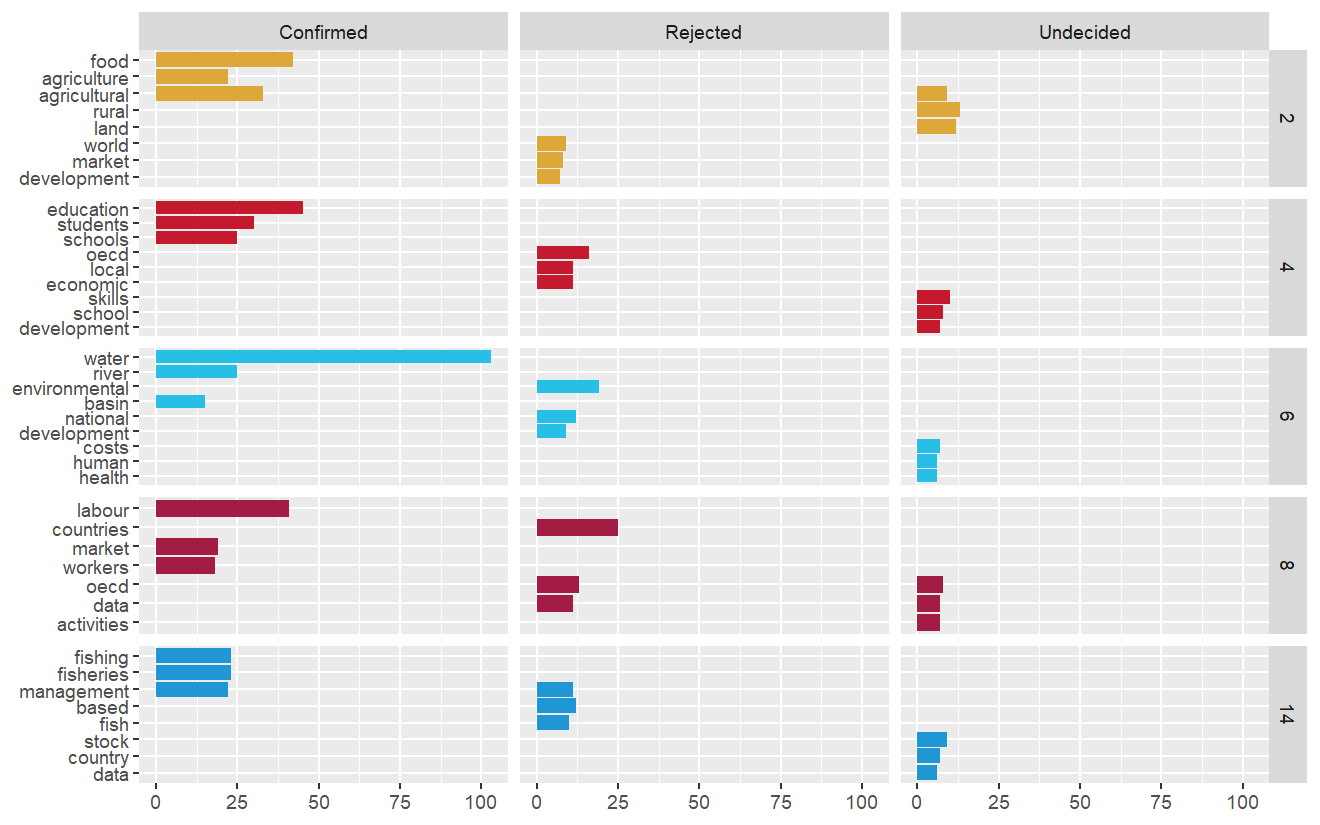
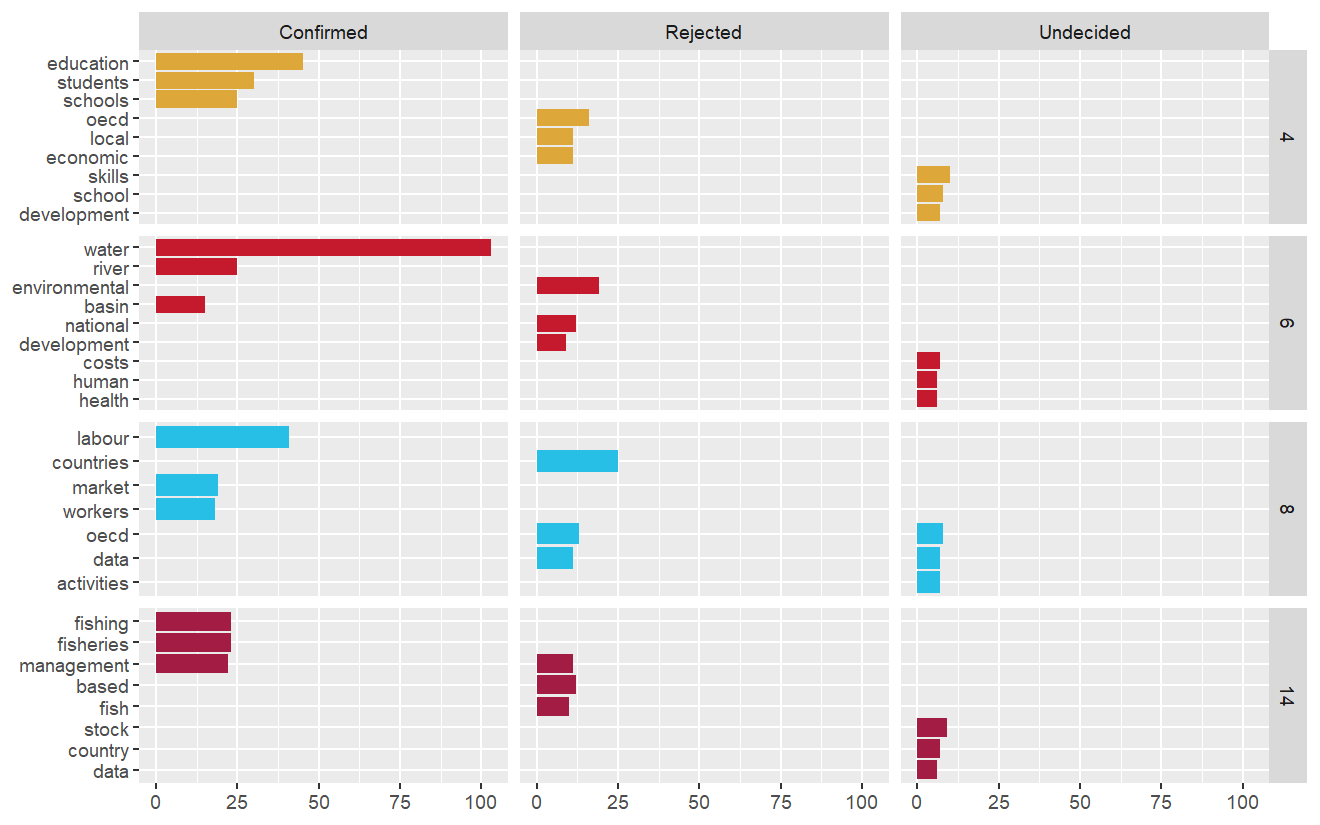
bigrams added

diff --git a/analysis/output/texts_test_bigram.tex b/analysis/output/texts_test_bigram.tex
@@ -1,0 +1,27 @@
+\begin{table}[t]
+\fontsize{12.0pt}{14.4pt}\selectfont
+\begin{tabular*}{\linewidth}{@{\extracolsep{\fill}}rrrr}
+\toprule
+sdg & Confirmed & Rejected & F \\ 
+\midrule\addlinespace[2.5pt]
+1 & 45.9 (27) & 39.2 (50) & 2.6 \\ 
+2 & 46.7 (45) & 38.7 (24) & 2.5 \\ 
+3 & 46.7 (28) & 37.5 (48) & 7.8* \\ 
+4 & 46.9 (43) & 35.9 (39) & 5.9* \\ 
+5 & 45.3 (35) & 39.1 (34) & 1.4 \\ 
+6 & 41.3 (48) & 37.3 (37) & 1.2 \\ 
+7 & 38.2 (50) & 37 (50) & 0.2 \\ 
+8 & 48.6 (38) & 38.5 (36) & 6.8* \\ 
+9 & 45.5 (28) & 36.8 (29) & 4.2* \\ 
+10 & 42.8 (29) & 38.9 (32) & 1.4 \\ 
+11 & 48 (27) & 37.5 (42) & 4.1* \\ 
+12 & 43.8 (44) & 36.7 (39) & 2.5 \\ 
+13 & 48 (33) & 43.5 (32) & 1.6 \\ 
+14 & 45.5 (35) & 36 (49) & 6.6* \\ 
+15 & 44.3 (41) & 35.8 (30) & 3.5* \\ 
+16 & 63.9 (35) & 61.5 (33) & 0.4 \\ 
+17 & 51.9 (31) & 39.8 (33) & 4.9* \\ 
+\bottomrule
+\end{tabular*}
+\end{table}
+
